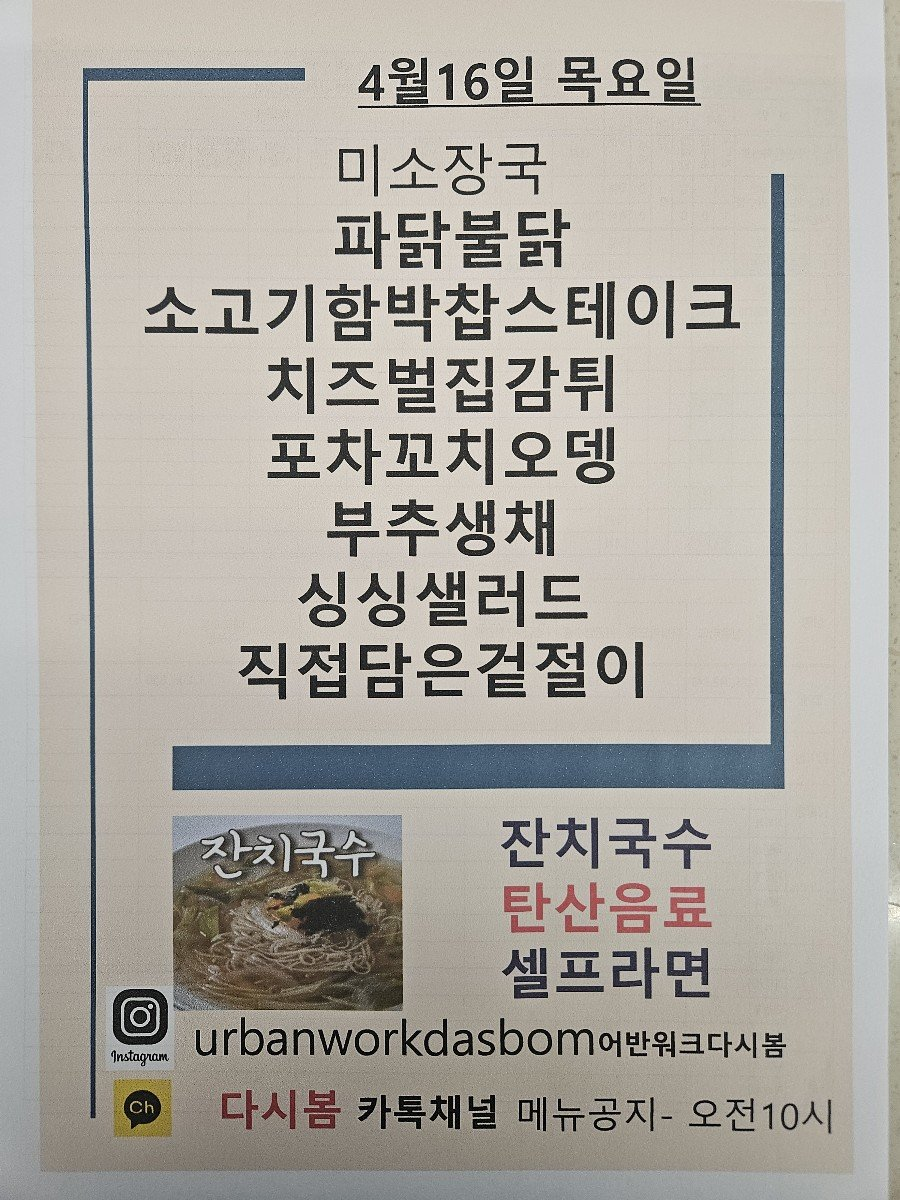
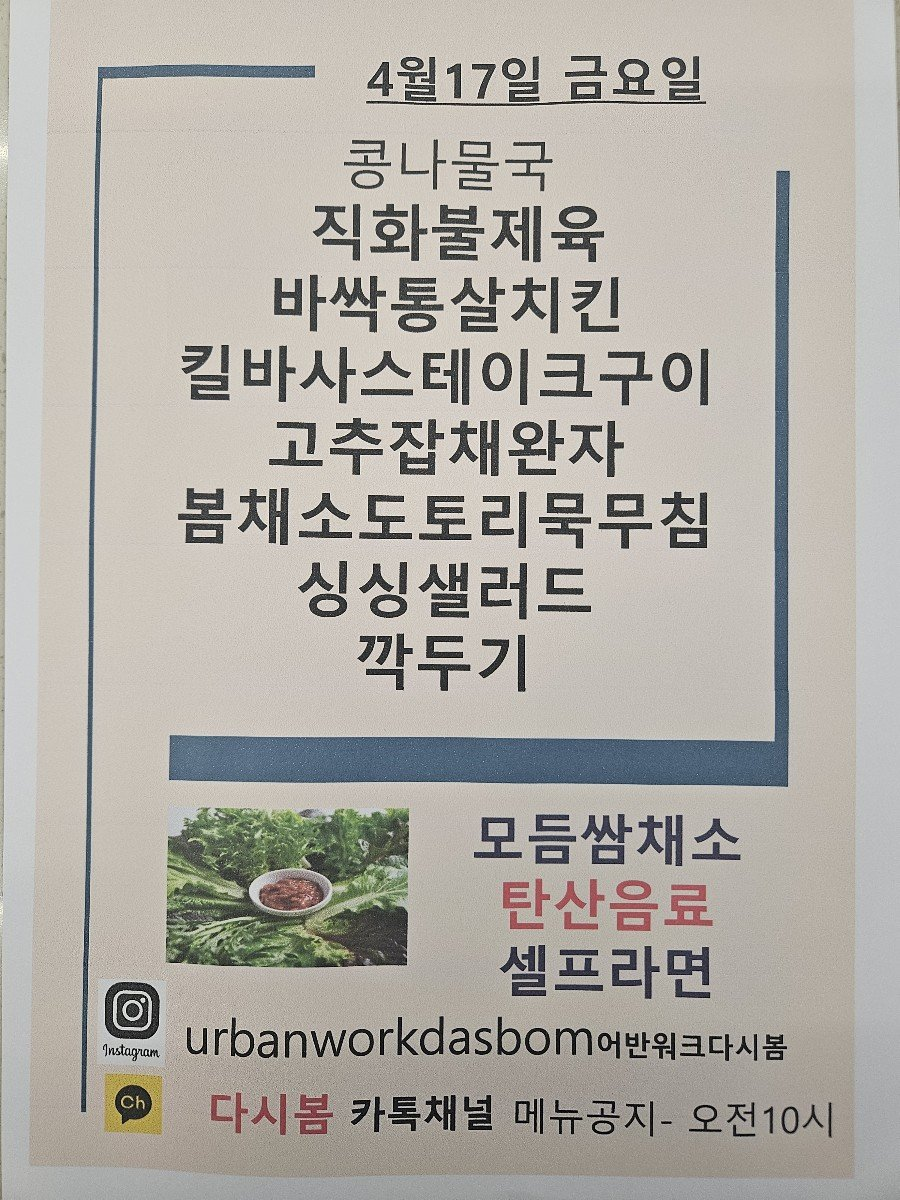
Update menu board assets

Changed region(s): [[0.0, 0.0, 0.9333, 1.0], [0.9333, 0.0, 1.0, 1.0]]

diff --git a/menu-today/index.html b/menu-today/index.html
@@ -231,7 +231,7 @@
 
     <section class="meta-bar">
       <div class="meta-card"><div class="meta-label">기준 날짜</div><div class="meta-value">2026년 4월 17일 금요일</div></div>
-      <div class="meta-card"><div class="meta-label">최종 가져온 시간</div><div class="meta-value">2026-04-17 09:32:43</div></div>
+      <div class="meta-card"><div class="meta-label">최종 가져온 시간</div><div class="meta-value">2026-04-17 09:47:37</div></div>
       <div class="meta-card"><div class="meta-label">확인 완료</div><div class="meta-value">9개 식당</div></div>
       <div class="meta-card"><div class="meta-label">준비중</div><div class="meta-value">3개 채널</div></div>
     </section>
@@ -267,7 +267,7 @@
           </div>
           <button class="badge image-button" type="button" data-image="./images/dasibom.png" data-title="다시 봄">메뉴 이미지 확인</button>
         </div>
-        <div class="info-note">수집대기중입니다. 현재는 마지막으로 확인한 메뉴를 보여줍니다.</div><ul><li>미 소장국 ;</li><li>구타브다</li><li>파닭불닭</li><li>소 함박잡스테이크</li><li>치즈벌집감튀</li><li>즈벌집감투</li><li>i ALI 치 오 더</li><li>a [꼬 그</li><li>번즈 ㅅ 채</li><li>샐러드</li><li>지져 다으거져</li><li>그 — 더 른 그 0</li></ul>
+        <ul><li>로 [틀고</li><li>직화불제육</li><li>킬바사스테이크구이</li><li>고주잡채완자</li><li>봄채소도토리묵무침</li><li>샐러드</li><li>ㅣ 뿌연 PSs</li><li>콩나물국</li><li>모듬쌈채소</li><li>타산을</li><li>셀라면</li><li>0168110011608560000반</li></ul>
       </article>
 
       <article class="restaurant-card">
